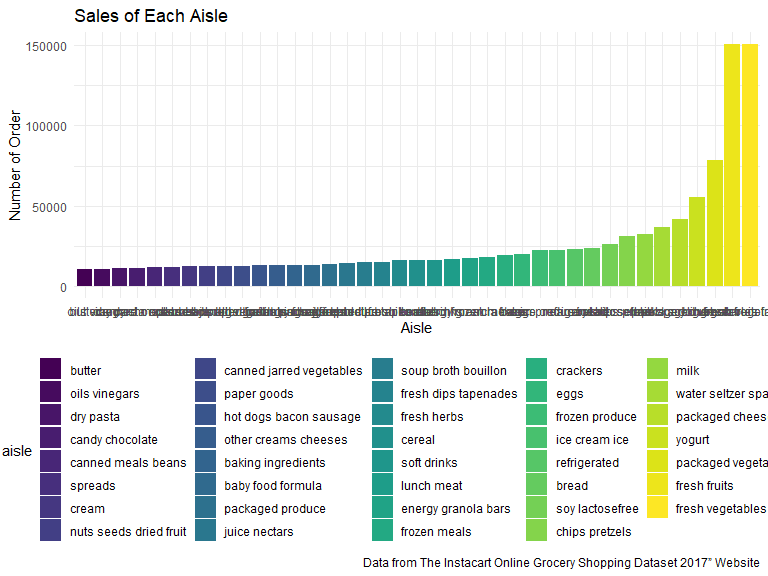
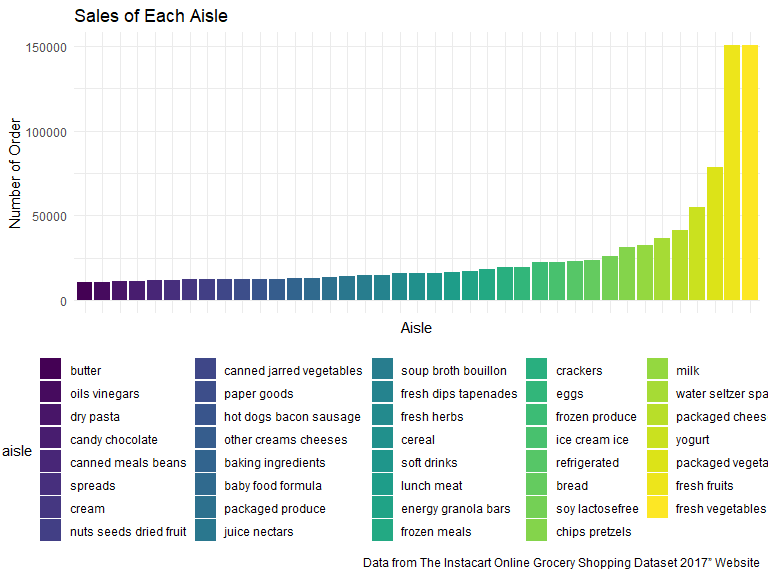
Finished almost all part, but still need to check to see if there is something that I misunderstood.

diff --git a/p8105_hw3_jt3174.md b/p8105_hw3_jt3174.md
@@ -48,7 +48,7 @@ aisle_plot = aisle_data %>%
   # change the order of the datafram
   select(n_aisle, everything()) %>% 
   # change the order of factor aisle according to n_aisle
-  mutate(aisle = forcats::fct_reorder(aisle, n_aisle))
+  mutate(aisle = forcats::fct_reorder(aisle, n_aisle)) 
 
 aisle_plot
 ```
@@ -80,7 +80,9 @@ aisle_col_chart = ggplot(aisle_plot, aes(x = aisle, y = n_aisle))+
     x = "Aisle",
     y = "Number of Order",
     caption = "Data from The Instacart Online Grocery Shopping Dataset 2017” Website"
-  )
+  ) +
+  # don't show the original x-axis labels for readability
+  scale_x_discrete(labels = NULL)
 
 aisle_col_chart
 ```
@@ -189,6 +191,17 @@ There are 15 variables in this dataset:
 Some of the key variables are reordered (this tells you whether the item
 was repurchased or not), and days\_since\_prior\_order (this tells you
 how long it takes to reorder an item).
+
+As I went through the process of creating the plots above, I think some
+useful illustrations of observaitions can be the 2 x 7 table we created.
+We can find the most popular product within each aisle, and maybe use
+this data to prepare the inventory and keep on track of how many
+inventory the store should have on hand to sale. And if we combine this
+with time of order or date of order, we can maybe find a pattern for
+certain products and their best selling dates, (for example, turkey and
+thanksgiving day) to properly prepare our inventory in case that some
+certain goods would be out-of-stock on certain period of time and having
+excessive inventory for other times.
 
 There are 134 aisles, and the most popular aisle is fresh vegetables.
 
@@ -346,8 +359,11 @@ excellent_data
     ## # ... with 433 more rows
 
 ``` r
+# make a Spaghetti Plot for Mean Data Value over Year within a State
+# x-axis: year, y-axis = mean, assign color according to their states
 excellent_plot = ggplot(excellent_data, aes(x = year, y = mean_data, color = state)) + 
   geom_line() +
+  # add title, labels for x- and y-axis, caption
   labs(
     title = "Spaghetti Plot for Mean Data Value over Year within a State",
     x = "Year",
@@ -379,7 +395,8 @@ two_panel_plot = brfss_data %>%
   # set transparency
   geom_density(alpha = 0.5) +
   # create a two panel plot for responses among locations in NY State
-  facet_grid(year ~ response)+
+  facet_grid(year ~ response) +
+  # add title, labels for x- and y- labels and caption
   labs(
     title = "Two Panel Plot for Responses among Locations in NY State",
     x = "Data Value",
@@ -480,11 +497,130 @@ The variables are:
   - weekday: to indicate whether it is a weekday or a weekend for this
     man’s data record
 
-Traditional analyses of accelerometer data focus on the total activity
-over the day. Using your tidied dataset, aggregate accross minutes to
-create a total activity variable for each day, and create a table
-showing these totals. Are any trends apparent? Accelerometer data allows
-the inspection activity over the course of the day. Make a single-panel
-plot that shows the 24-hour activity time courses for each day and use
-color to indicate day of the week. Describe in words any patterns or
-conclusions you can make based on this graph.
+<!-- end list -->
+
+``` r
+total_each_day = accel_data %>%
+  # group by week and day of week, so we would have data for 35 days
+  group_by(week, day) %>% 
+  # find the total for each day
+  summarize(sum_of_day = sum(activity_count)) %>% 
+  # create a table for this
+  knitr::kable(digits = 2)
+
+total_each_day
+```
+
+| week | day       | sum\_of\_day |
+| ---: | :-------- | -----------: |
+|    1 | Friday    |    480542.62 |
+|    1 | Monday    |     78828.07 |
+|    1 | Saturday  |    376254.00 |
+|    1 | Sunday    |    631105.00 |
+|    1 | Thursday  |    355923.64 |
+|    1 | Tuesday   |    307094.24 |
+|    1 | Wednesday |    340115.01 |
+|    2 | Friday    |    568839.00 |
+|    2 | Monday    |    295431.00 |
+|    2 | Saturday  |    607175.00 |
+|    2 | Sunday    |    422018.00 |
+|    2 | Thursday  |    474048.00 |
+|    2 | Tuesday   |    423245.00 |
+|    2 | Wednesday |    440962.00 |
+|    3 | Friday    |    467420.00 |
+|    3 | Monday    |    685910.00 |
+|    3 | Saturday  |    382928.00 |
+|    3 | Sunday    |    467052.00 |
+|    3 | Thursday  |    371230.00 |
+|    3 | Tuesday   |    381507.00 |
+|    3 | Wednesday |    468869.00 |
+|    4 | Friday    |    154049.00 |
+|    4 | Monday    |    409450.00 |
+|    4 | Saturday  |      1440.00 |
+|    4 | Sunday    |    260617.00 |
+|    4 | Thursday  |    340291.00 |
+|    4 | Tuesday   |    319568.00 |
+|    4 | Wednesday |    434460.00 |
+|    5 | Friday    |    620860.00 |
+|    5 | Monday    |    389080.00 |
+|    5 | Saturday  |      1440.00 |
+|    5 | Sunday    |    138421.00 |
+|    5 | Thursday  |    549658.00 |
+|    5 | Tuesday   |    367824.00 |
+|    5 | Wednesday |    445366.00 |
+
+``` r
+# to identify a trend, we create a scatterplot connected with a line to check
+
+trend_plot = accel_data %>%
+  # group by week and day of week, so we would have data for 35 days
+  group_by(week, day) %>% 
+  # find the total for each day
+  summarize(sum_of_day = sum(activity_count)) %>% 
+  # ungroup week and day
+  ungroup(week, day) %>% 
+  # add a variable to be the index
+  mutate(day_number = row_number())
+
+trend_plot %>% 
+  # create a scatterplot and let day_number to be x-axis and sum_of_day to be 
+  ggplot(aes(x = day_number, y = sum_of_day)) +
+  geom_point(aes(color = day_number), alpha = 0.5) +
+  geom_line(aes(color = day_number)) +
+  # add title, labels for x- and y- axis and caption
+  labs(
+    title = "Trend Plot for Sum of Day Value Across Days",
+    x = "Days",
+    y = "Total Activity Counts for Each Day",
+    caption = "Data from the Advanced Cardiac Care Center of Columbia University Medical Center"
+  ) +
+  scale_y_continuous(
+    # make the y-axis labels a bit prettier
+    breaks = c(0, 200000, 400000, 600000, 800000),
+    labels = c("0", "200000", "400000", "600000", "800000")
+    )
+```
+
+<img src="p8105_hw3_jt3174_files/figure-gfm/unnamed-chunk-1-1.png" width="90%" />
+
+There is no appearant trend over time for the activity counts in each
+day. The number just oscalate in the range from 1000 to 650000.
+
+``` r
+inspection_data = accel_data %>% 
+  # group by day of week
+  group_by(day) %>% 
+  # organize minutes to hours
+  mutate(hour_in_a_day = ceiling(minute_in_a_day/60)) %>% 
+  # group by hour and day
+  group_by(day, hour_in_a_day) %>% 
+  # Find the total activity for each hour
+  summarize(sum_by_hour = sum(activity_count)) %>% 
+  ggplot(aes(x = hour_in_a_day, y = sum_by_hour)) +
+  geom_point(aes(color = day)) +
+  geom_line(aes(color = day)) +
+  labs(
+    title = "Plot for 24-hour Activity Time Courses for Each Day",
+    x = "Hour in a Day",
+    y = "Total Activity Counts for Each Hour",
+    caption = "Data from the Advanced Cardiac Care Center of Columbia University Medical Center") +
+    scale_y_continuous(
+    # make the y-axis labels a bit prettier
+    breaks = c(0, 100000, 200000, 300000),
+    labels = c("0", "100000", "200000", "300000")
+  ) +
+    scale_x_continuous(
+    # make the x-axis labels a bit prettier
+    breaks = c(0, 4, 8, 12, 16, 20, 24),
+    labels = c("0", "4", "8", "12", "16", "20", "24"))
+  
+inspection_data
+```
+
+<img src="p8105_hw3_jt3174_files/figure-gfm/unnamed-chunk-2-1.png" width="90%" />
+
+According to the plot that R generated, we can see that this man was
+extremly inactive during 0AM - 8AM everyday, and then pretty much stayed
+the same level of activeness for the rest of day after 8AM to 8PM. He
+moved around a lot at Friday nights and Sunday mornings relatively. Then
+his activity counts gradually decreased after 8PM.
